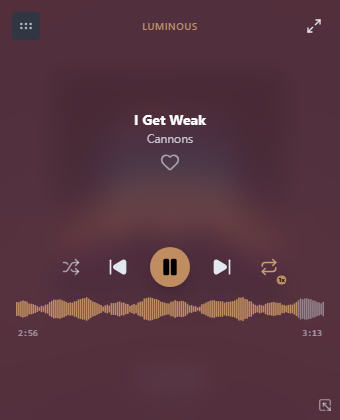
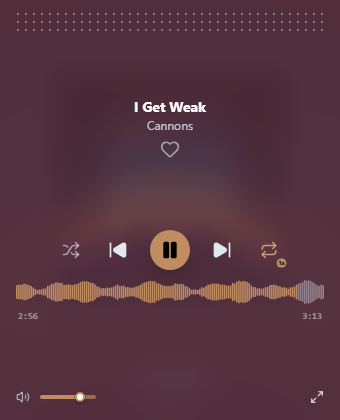
Rework miniplayer controls: volume slider, full-width grabber, remove resize handle (#158)
* Rework miniplayer controls: volume slider, full-width grabber, remove resize handle

Adds a volume slider/mute button to the bottom-left, extends the drag
grabber into a textured strip across the whole top edge, drops the
manual pointer-drag resize fallback and handle entirely, and removes
the "Luminous" label. Restore button moves to the bottom-right with
a tooltip corrected to its actual shortcut (Ctrl+M).

* docs: update miniplayer screenshots for reworked control layout

diff --git a/src/lib/components/Miniplayer.svelte b/src/lib/components/Miniplayer.svelte
@@ -1,6 +1,5 @@
 <script lang="ts">
   import { invoke } from "@tauri-apps/api/core";
-  import { getCurrentWindow } from "@tauri-apps/api/window";
   import { playerStore } from "../stores/player.svelte";
   import { collectionStore } from "../stores/collection.svelte";
   import { themeStore } from "../stores/theme.svelte";
@@ -17,12 +16,38 @@
     Repeat,
     Repeat1,
     Maximize2,
-    GripHorizontal,
-    Scaling
+    Volume2,
+    VolumeX
   } from "lucide-svelte";
 
-  const MINIPLAYER_MIN_SIZE_PX = 220;
-  const MINIPLAYER_MAX_SIZE_PX = 650;
+  // Volume slider gradient style (mirrors PlayerBar.svelte's volume control)
+  let volumePercent = $derived(playerStore.volume * 100);
+  let volumeSliderStyle = $derived(
+    `background: linear-gradient(to right, var(--color-accent) 0%, var(--color-accent) ${volumePercent}%, var(--color-border) ${volumePercent}%, var(--color-border) 100%)`
+  );
+
+  function handleVolumeChange(e: Event) {
+    const input = e.target as HTMLInputElement;
+    playerStore.setVolume(parseFloat(input.value));
+  }
+
+  function releaseVolumeFocus(e: Event) {
+    (e.currentTarget as HTMLInputElement).blur();
+  }
+
+  let isMuted = $state(false);
+  let previousVolume = $state(1.0);
+
+  function toggleMute() {
+    if (isMuted) {
+      playerStore.setVolume(previousVolume);
+      isMuted = false;
+    } else {
+      previousVolume = playerStore.volume;
+      playerStore.setVolume(0.0);
+      isMuted = true;
+    }
+  }
 
   function cycleShuffle() {
     const modes: import("../types").ShuffleMode[] = ["off", "all", "inside_album", "albums", "artists"];
@@ -40,47 +65,6 @@
 
   function handleStartDrag(e: PointerEvent) {
     invoke("start_window_drag").catch(() => {});
-  }
-
-  function handleStartResize(e: PointerEvent) {
-    e.preventDefault();
-    e.stopPropagation();
-
-    // Native OS resize and the manual pointer-drag fallback below must be
-    // mutually exclusive: if both run, they fight over the window size
-    // (the fallback computes deltas from a stale start size while the OS
-    // resizes live), producing an unpredictable final size that doesn't
-    // match what the user actually dragged to.
-    try {
-      const appWindow = getCurrentWindow() as any;
-      if (appWindow && typeof appWindow.startResizing === "function") {
-        appWindow.startResizing("south-east").catch(() => {});
-        return;
-      }
-    } catch {
-      // Fall through to manual pointer drag resize
-    }
-
-    const startX = e.clientX;
-    const startY = e.clientY;
-    const startWidth = window.innerWidth;
-    const startHeight = window.innerHeight;
-
-    function onPointerMove(moveEvent: PointerEvent) {
-      const deltaX = moveEvent.clientX - startX;
-      const deltaY = moveEvent.clientY - startY;
-      const newWidth = Math.max(MINIPLAYER_MIN_SIZE_PX, Math.min(MINIPLAYER_MAX_SIZE_PX, startWidth + deltaX));
-      const newHeight = Math.max(MINIPLAYER_MIN_SIZE_PX, Math.min(MINIPLAYER_MAX_SIZE_PX, startHeight + deltaY));
-      invoke("resize_miniplayer", { width: newWidth, height: newHeight }).catch(() => {});
-    }
-
-    function onPointerUp() {
-      window.removeEventListener("pointermove", onPointerMove);
-      window.removeEventListener("pointerup", onPointerUp);
-    }
-
-    window.addEventListener("pointermove", onPointerMove);
-    window.addEventListener("pointerup", onPointerUp);
   }
 
   function handleKeyDown(e: KeyboardEvent) {
@@ -155,35 +139,16 @@
   <div
     class="absolute inset-0 z-30 bg-brand-main/85 backdrop-blur-md flex flex-col justify-between p-3 opacity-0 group-hover:opacity-100 transition-opacity duration-200 pointer-events-none group-hover:pointer-events-auto"
   >
-    <!-- Top-aligned Window Drag Region and Close/Restore boundary (`X`) -->
-    <div class="flex items-center justify-between w-full flex-shrink-0 z-40">
-      <!-- Clean Drag Handle icon -->
-      <div
-        data-tauri-drag-region
-        onpointerdown={handleStartDrag}
-        role="button"
-        tabindex="0"
-        aria-label={i18n.t('miniplayer.dragHint', {}, 'Drag window')}
-        class="flex items-center justify-center cursor-grab active:cursor-grabbing text-brand-text-secondary/70 hover:text-brand-text-primary transition-colors p-1.5 rounded bg-brand-sidebar/40 hover:bg-brand-sidebar/80"
-        title={i18n.t('miniplayer.dragHint', {}, 'Drag window')}
-      >
-        <GripHorizontal class="w-4 h-4" />
-      </div>
-
-      <!-- Title / App Label -->
-      <span class="text-[10px] font-semibold tracking-wider uppercase text-brand-accent-text opacity-90 truncate max-w-[120px]">
-        Luminous
-      </span>
-
-      <!-- Restore / Exit Miniplayer Button -->
-      <button
-        onclick={() => collectionStore.exitMiniplayerMode()}
-        class="p-1.5 text-brand-text-secondary hover:text-brand-text-primary hover:bg-brand-border/40 rounded transition-colors cursor-pointer"
-        title={i18n.t('miniplayer.exit', {}, 'Restore Full Window (Esc)')}
-      >
-        <Maximize2 class="w-4 h-4" />
-      </button>
-    </div>
+    <!-- Full-width Window Drag Region spanning the top edge, textured with a grabber dot pattern -->
+    <div
+      data-tauri-drag-region
+      onpointerdown={handleStartDrag}
+      role="button"
+      tabindex="0"
+      aria-label={i18n.t('miniplayer.dragHint', {}, 'Drag window')}
+      class="drag-grabber w-full h-5 flex-shrink-0 z-40 cursor-grab active:cursor-grabbing text-brand-text-secondary/40 hover:text-brand-text-secondary/80 transition-colors"
+      title={i18n.t('miniplayer.dragHint', {}, 'Drag window')}
+    ></div>
 
     <!-- Song Metadata Info in Hover Mask -->
     <div class="w-full text-center px-1 py-0.5 flex flex-col items-center justify-center flex-shrink-0 mt-auto">
@@ -288,16 +253,46 @@
       </div>
     </div>
 
-    <!-- Pixel-Resize Grab Handle anchored in absolute bottom-right corner -->
-    <div
-      onpointerdown={handleStartResize}
-      role="button"
-      tabindex="0"
-      aria-label={i18n.t('miniplayer.resizeHint', {}, 'Resize Window')}
-      class="absolute bottom-1 right-1 p-1 text-brand-text-secondary/60 hover:text-brand-text-primary cursor-se-resize transition-colors z-50 rounded hover:bg-brand-sidebar/40"
-      title={i18n.t('miniplayer.resizeHint', {}, 'Resize Window')}
-    >
-      <Scaling class="w-3.5 h-3.5 rotate-90" />
+    <!-- Bottom-aligned Volume (left) & Restore (right) Controls -->
+    <div class="flex items-center justify-between w-full flex-shrink-0 z-50">
+      <!-- Volume Control -->
+      <div class="flex items-center gap-1.5">
+        <button
+          onclick={toggleMute}
+          class="p-1 text-brand-text-secondary/70 hover:text-brand-text-primary transition-colors cursor-pointer"
+          title={i18n.t('playerBar.volume')}
+        >
+          {#if isMuted || playerStore.volume === 0}
+            <VolumeX class="w-3.5 h-3.5" />
+          {:else}
+            <Volume2 class="w-3.5 h-3.5" />
+          {/if}
+        </button>
+        <input
+          type="range"
+          min="0"
+          max="1"
+          step="0.01"
+          value={playerStore.volume}
+          oninput={handleVolumeChange}
+          onchange={releaseVolumeFocus}
+          onpointerup={releaseVolumeFocus}
+          onkeyup={releaseVolumeFocus}
+          class="volume-slider w-14 h-1 rounded-lg cursor-pointer outline-none"
+          style={volumeSliderStyle}
+          aria-label={i18n.t('playerBar.volumeSlider')}
+          title={i18n.t('playerBar.volumeWithValue', { value: Math.round(volumePercent) })}
+        />
+      </div>
+
+      <!-- Restore -->
+      <button
+        onclick={() => collectionStore.exitMiniplayerMode()}
+        class="p-1 text-brand-text-secondary hover:text-brand-text-primary hover:bg-brand-border/40 rounded transition-colors cursor-pointer"
+        title={i18n.t('miniplayer.exit', {}, 'Restore Full Window (Ctrl+M)')}
+      >
+        <Maximize2 class="w-3.5 h-3.5" />
+      </button>
     </div>
   </div>
 </div>
@@ -306,5 +301,54 @@
   :global(.glass-surface) {
     backdrop-filter: blur(20px) saturate(180%);
     -webkit-backdrop-filter: blur(20px) saturate(180%);
+  }
+
+  /* Grabber texture: a repeating dot pattern spanning the full drag region,
+     rather than a single centered grip icon — signals the whole top edge
+     is draggable, not just its midpoint. */
+  .drag-grabber {
+    background-image: radial-gradient(circle, currentColor 1px, transparent 1.5px);
+    background-size: 8px 8px;
+    background-position: center;
+  }
+
+  .volume-slider {
+    -webkit-appearance: none;
+    appearance: none;
+    transition: background 0.15s ease;
+  }
+
+  .volume-slider::-webkit-slider-thumb {
+    -webkit-appearance: none;
+    appearance: none;
+    width: 10px;
+    height: 10px;
+    border-radius: 50%;
+    background: #ffffff;
+    border: 2px solid var(--color-accent);
+    cursor: pointer;
+    box-shadow: 0 1px 3px rgba(0, 0, 0, 0.4);
+    transition: transform 0.1s, border-color 0.2s;
+  }
+
+  .volume-slider::-webkit-slider-thumb:hover {
+    transform: scale(1.25);
+    border-color: var(--color-accent-hover);
+  }
+
+  .volume-slider::-moz-range-thumb {
+    width: 10px;
+    height: 10px;
+    border: 2px solid var(--color-accent);
+    border-radius: 50%;
+    background: #ffffff;
+    cursor: pointer;
+    box-shadow: 0 1px 3px rgba(0, 0, 0, 0.4);
+    transition: transform 0.1s, border-color 0.2s;
+  }
+
+  .volume-slider::-moz-range-thumb:hover {
+    transform: scale(1.25);
+    border-color: var(--color-accent-hover);
   }
 </style>

diff --git a/src/lib/components/Miniplayer.test.ts b/src/lib/components/Miniplayer.test.ts
@@ -116,4 +116,22 @@ describe("Miniplayer.svelte", () => {
     await fireEvent.keyDown(region, { key: "Escape" });
     expect(exitSpy).toHaveBeenCalledTimes(2);
   });
+
+  it("adjusts volume via the slider and mutes/unmutes via the volume button", async () => {
+    playerStore.currentSong = mockSong;
+    const setVolumeSpy = vi.spyOn(playerStore, "setVolume");
+
+    const { getByTitle, getByLabelText } = render(Miniplayer);
+
+    const slider = getByLabelText("Volume Slider") as HTMLInputElement;
+    await fireEvent.input(slider, { target: { value: "0.4" } });
+    expect(setVolumeSpy).toHaveBeenCalledWith(0.4);
+
+    const muteBtn = getByTitle("Volume");
+    await fireEvent.click(muteBtn);
+    expect(setVolumeSpy).toHaveBeenCalledWith(0.0);
+
+    await fireEvent.click(muteBtn);
+    expect(setVolumeSpy).toHaveBeenLastCalledWith(0.4);
+  });
 });

diff --git a/scripts/tauri-ipc-mock.ts b/scripts/tauri-ipc-mock.ts
@@ -687,7 +687,7 @@ function getIpcCallback(id: number | undefined): IpcCallback | undefined {
     "play_song", "play_songs", "play_playlist_item", "pause", "resume", "stop",
     "next_track", "previous_track", "seek_to", "set_volume", "set_shuffle_mode", "set_repeat_mode",
     "get_startup_file",
-    "enter_miniplayer_mode", "exit_miniplayer_mode", "resize_miniplayer", "start_window_drag", "start_window_resize",
+    "enter_miniplayer_mode", "exit_miniplayer_mode", "start_window_drag", "start_window_resize",
     "save_song_tags", "save_album_tags", "lookup_acoustid_tags",
   ];
   for (const cmd of NOOP_COMMANDS) commands[cmd] = noop;

diff --git a/src/lib/locales/fr.ts b/src/lib/locales/fr.ts
@@ -513,9 +513,8 @@ export const fr = {
   miniplayer: {
     title: "Mini-lecteur",
     toggleTooltip: "Mini-lecteur Picture-in-Picture (Ctrl+M)",
-    exit: "Restaurer la fenêtre principale (Esc)",
-    dragHint: "Déplacer la fenêtre",
-    resizeHint: "Redimensionner la fenêtre"
+    exit: "Restaurer la fenêtre principale (Ctrl+M)",
+    dragHint: "Déplacer la fenêtre"
   },
 
   tagEditor: {

diff --git a/src/lib/locales/en.ts b/src/lib/locales/en.ts
@@ -515,10 +515,9 @@ export const en = {
   miniplayer: {
     title: "Miniplayer",
     toggleTooltip: "Picture-in-Picture Mode (Ctrl+M)",
-    exit: "Restore Full Window (Esc)",
+    exit: "Restore Full Window (Ctrl+M)",
 
-    dragHint: "Drag window",
-    resizeHint: "Resize window"
+    dragHint: "Drag window"
   },
 
   tagEditor: {

diff --git a/src-tauri/src/commands/window.rs b/src-tauri/src/commands/window.rs
@@ -8,12 +8,12 @@ pub async fn enter_miniplayer_mode(
     width: Option<f64>,
     height: Option<f64>,
 ) -> Result<serde_json::Value, String> {
-    // set_size() (below, and in resize_miniplayer) sets the window's *inner*
-    // (client area) size — it maps to winit's set_inner_size(). Capturing
-    // via outer_size() here (which includes the title bar/borders) and later
-    // restoring it via set_size() would grow the window by the decoration
-    // thickness on every enter/exit round-trip, so read inner_size() to stay
-    // consistent with what we write.
+    // set_size() (below) sets the window's *inner* (client area) size — it
+    // maps to winit's set_inner_size(). Capturing via outer_size() here
+    // (which includes the title bar/borders) and later restoring it via
+    // set_size() would grow the window by the decoration thickness on every
+    // enter/exit round-trip, so read inner_size() to stay consistent with
+    // what we write.
     let current_size = window.inner_size().map_err(|e| e.to_string())?;
     let scale_factor = window.scale_factor().unwrap_or(1.0);
     let logical_width = current_size.width as f64 / scale_factor;
@@ -46,11 +46,10 @@ pub async fn exit_miniplayer_mode(
     saved_height: Option<f64>,
 ) -> Result<serde_json::Value, String> {
     // Capture the miniplayer's actual current size before restoring the full
-    // window — this reflects whatever the user resized it to, whether via
-    // the native OS resize handle or the manual pointer-drag fallback. Use
-    // inner_size() (client area) to match what set_size() below writes —
-    // see the comment in enter_miniplayer_mode for why outer_size() here
-    // would compound growth across enter/exit cycles.
+    // window — this reflects whatever the user resized it to via the native
+    // OS resize handle. Use inner_size() (client area) to match what
+    // set_size() below writes — see the comment in enter_miniplayer_mode for
+    // why outer_size() here would compound growth across enter/exit cycles.
     let current_size = window.inner_size().map_err(|e| e.to_string())?;
     let scale_factor = window.scale_factor().unwrap_or(1.0);
     let mini_width = current_size.width as f64 / scale_factor;
@@ -85,22 +84,6 @@ pub async fn start_window_drag(window: WebviewWindow) -> Result<(), String> {
 pub async fn start_window_resize(window: WebviewWindow) -> Result<(), String> {
     let _ = window;
     Ok(())
-}
-
-#[tauri::command]
-pub async fn resize_miniplayer(
-    window: WebviewWindow,
-    width: f64,
-    height: f64,
-) -> Result<(), String> {
-    let clamped_w = width.max(200.0).min(700.0);
-    let clamped_h = height.max(200.0).min(700.0);
-    window
-        .set_size(tauri::Size::Logical(tauri::LogicalSize {
-            width: clamped_w,
-            height: clamped_h,
-        }))
-        .map_err(|e| e.to_string())
 }
 
 #[cfg(test)]

diff --git a/src-tauri/src/lib.rs b/src-tauri/src/lib.rs
@@ -642,7 +642,6 @@ pub fn run() {
             commands::window::exit_miniplayer_mode,
             commands::window::start_window_drag,
             commands::window::start_window_resize,
-            commands::window::resize_miniplayer,
         ])
         .run(tauri::generate_context!())
         .expect("error while running Luminous");
